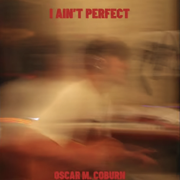
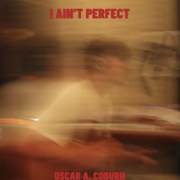
New cover art reading 'Oscar A. Coburn'
Replaces cover.jpg (hero, sleeve, vinyl label, Library, chooser) and the
favicon, home-screen icon and link-preview image made from it.

diff --git a/README.md b/README.md
@@ -3,7 +3,7 @@
 Promo site for Oscar A. Coburn's debut EP (released October 2, 2026). It's plain HTML/CSS/JS. GSAP + ScrollTrigger and Lenis load from CDNs, so there's no build step.
 
 ## Assets
-- `assets/cover.jpg`: the EP cover (1215×1286, trimmed from the supplied art). Used in the hero, the record sleeve and the vinyl label. The art itself reads "Oscar M. Coburn"; all site text uses "Oscar A. Coburn".
+- `assets/cover.jpg`: the EP cover (1003×1062, trimmed from the supplied art; reads "Oscar A. Coburn"). Used in the hero, the record sleeve, the vinyl label, the Library and the "Listen on" chooser.
 - `assets/og-image.jpg`: the 1200×630 social preview (cover + title).
 - `assets/favicon.png` and `assets/apple-touch-icon.png`: square crops of the cover.
 
